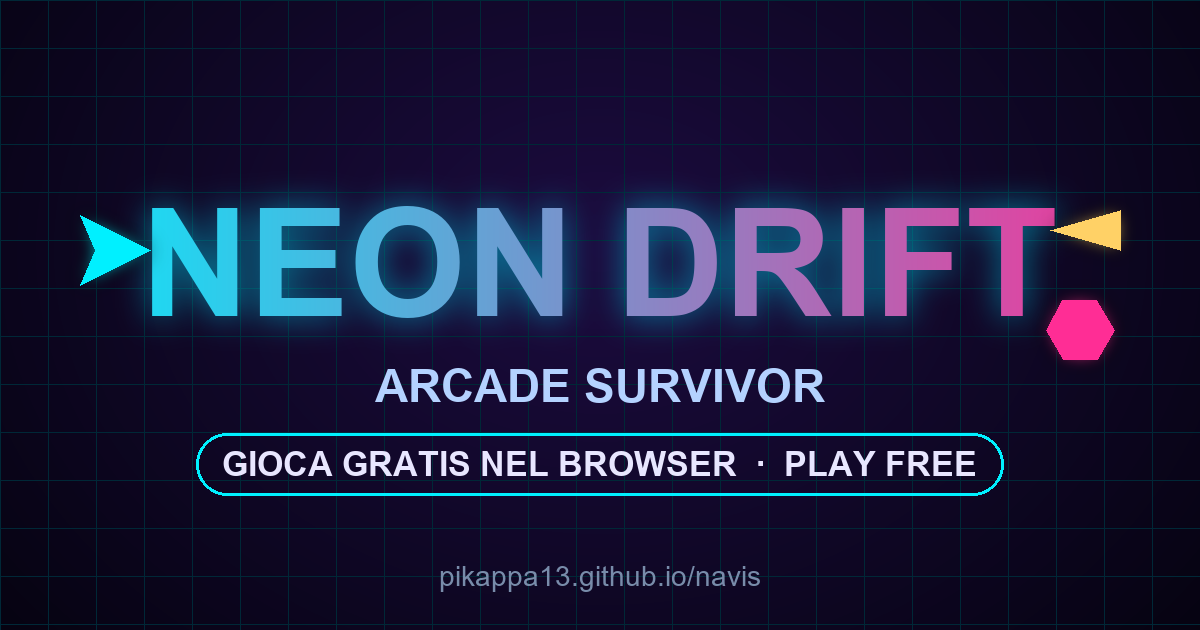
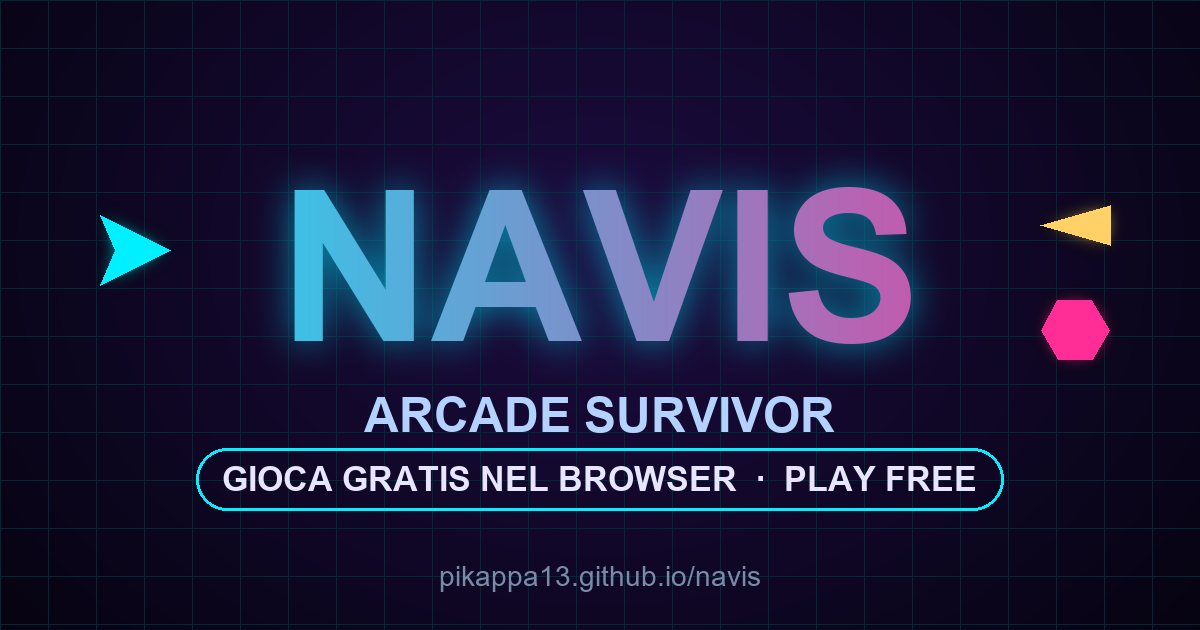
Rinomina il gioco in Navis
Sostituisce "NEON DRIFT" con "Navis" ovunque: titolo SEO, Open Graph,
Twitter Card, JSON-LD, logo in pagina (NAVIS), README e immagine social.
Aggiorna la chiave di salvataggio in localStorage (navis_best).
I riferimenti a "neon/synthwave" restano come descrizione dello stile.

Changed region(s): [[0.0617, 0.2714, 0.9558, 0.8143]]

diff --git a/index.html b/index.html
@@ -5,8 +5,8 @@
 <meta name="viewport" content="width=device-width, initial-scale=1.0, user-scalable=no">
 
 <!-- Primary SEO -->
-<title>NEON DRIFT — Gioco Arcade 2D Gratis nel Browser | Twin-Stick Survivor</title>
-<meta name="description" content="NEON DRIFT è un gioco arcade 2D twin-stick gratuito che gira direttamente nel browser: schiva, spara, potenziati a ogni ondata e sconfiggi i boss. Niente download, gioca subito!">
+<title>Navis — Gioco Arcade 2D Gratis nel Browser | Twin-Stick Survivor</title>
+<meta name="description" content="Navis è un gioco arcade 2D twin-stick gratuito che gira direttamente nel browser: schiva, spara, potenziati a ogni ondata e sconfiggi i boss. Niente download, gioca subito!">
 <meta name="keywords" content="gioco arcade, gioco 2d, gioco gratis online, browser game, twin stick shooter, survivor, neon, synthwave, html5 game, gioca gratis senza download, free arcade game">
 <meta name="author" content="Patrick Battistini">
 <meta name="robots" content="index, follow">
@@ -16,19 +16,19 @@
 
 <!-- Open Graph -->
 <meta property="og:type" content="website">
-<meta property="og:site_name" content="NEON DRIFT">
-<meta property="og:title" content="NEON DRIFT — Gioco Arcade 2D Gratis nel Browser">
+<meta property="og:site_name" content="Navis">
+<meta property="og:title" content="Navis — Gioco Arcade 2D Gratis nel Browser">
 <meta property="og:description" content="Twin-stick survivor neon/synthwave gratuito: schiva, spara, potenziati a ogni ondata e batti i boss. Gioca subito nel browser, niente download.">
 <meta property="og:url" content="https://pikappa13.github.io/navis/">
 <meta property="og:image" content="https://pikappa13.github.io/navis/og-image.png">
 <meta property="og:image:width" content="1200">
 <meta property="og:image:height" content="630">
-<meta property="og:image:alt" content="NEON DRIFT — gioco arcade 2D twin-stick">
+<meta property="og:image:alt" content="Navis — gioco arcade 2D twin-stick">
 <meta property="og:locale" content="it_IT">
 
 <!-- Twitter Card -->
 <meta name="twitter:card" content="summary_large_image">
-<meta name="twitter:title" content="NEON DRIFT — Gioco Arcade 2D Gratis nel Browser">
+<meta name="twitter:title" content="Navis — Gioco Arcade 2D Gratis nel Browser">
 <meta name="twitter:description" content="Twin-stick survivor neon/synthwave gratuito: schiva, spara, potenziati e batti i boss. Gioca subito nel browser.">
 <meta name="twitter:image" content="https://pikappa13.github.io/navis/og-image.png">
 
@@ -37,8 +37,8 @@
 {
   "@context": "https://schema.org",
   "@type": "VideoGame",
-  "name": "NEON DRIFT",
-  "alternateName": "NEON DRIFT — Arcade Survivor",
+  "name": "Navis",
+  "alternateName": "Navis — Arcade Survivor",
   "description": "Gioco arcade 2D twin-stick survivor in stile neon/synthwave, gratuito e giocabile direttamente nel browser. Schiva, spara, potenziati a ogni ondata e sconfiggi i boss.",
   "url": "https://pikappa13.github.io/navis/",
   "image": "https://pikappa13.github.io/navis/og-image.png",
@@ -137,7 +137,7 @@
   </div>
 
   <div class="overlay" id="menu">
-    <h1>NEON DRIFT</h1>
+    <h1>NAVIS</h1>
     <div class="sub">ARCADE SURVIVOR</div>
     <button class="btn" id="play">GIOCA</button>
     <div class="keys">
@@ -308,7 +308,7 @@ let paused=false;
 let player, bullets, ebullets, enemies, particles, pickups, stars, floaters, boss;
 let score, wave, waveTimer, spawnTimer, shootTimer, screenShake, slowmo, combo, comboTimer;
 let flash, lastBossWave;
-let bestScore = +(localStorage.getItem("neondrift_best")||0);
+let bestScore = +(localStorage.getItem("navis_best")||0);
 
 function reset(){
   player = { x:W/2, y:H/2, r:13, speed:285, hp:5, maxhp:5, fireRate:.22, dmg:1,
@@ -331,7 +331,7 @@ function start(){
 function gameOver(){
   state="over"; stopMusic();
   const rec = score>bestScore;
-  if(rec){ bestScore=score; localStorage.setItem("neondrift_best",bestScore); }
+  if(rec){ bestScore=score; localStorage.setItem("navis_best",bestScore); }
   document.getElementById("finalScore").textContent=score.toLocaleString("it");
   document.getElementById("finalWave").textContent=wave;
   document.getElementById("best").textContent=bestScore.toLocaleString("it");

diff --git a/README.md b/README.md
@@ -1,4 +1,4 @@
-# NEON DRIFT — Arcade Survivor
+# Navis — Arcade Survivor
 
 [![Gioca ora](https://img.shields.io/badge/▶%20GIOCA%20ORA-online-00f0ff.svg?style=for-the-badge)](https://pikappa13.github.io/navis/)
 [![License: MIT](https://img.shields.io/badge/License-MIT-00f0ff.svg)](LICENSE)
@@ -11,7 +11,7 @@ Un gioco arcade 2D twin-stick in stile neon/synthwave, in un **singolo file HTML
 
 Oppure apri `index.html` in locale: nessun download, nessuna installazione.
 
-![NEON DRIFT](og-image.png)
+![Navis](og-image.png)
 
 ## 🎮 Come si gioca
 - **WASD / frecce** — muovi la nave